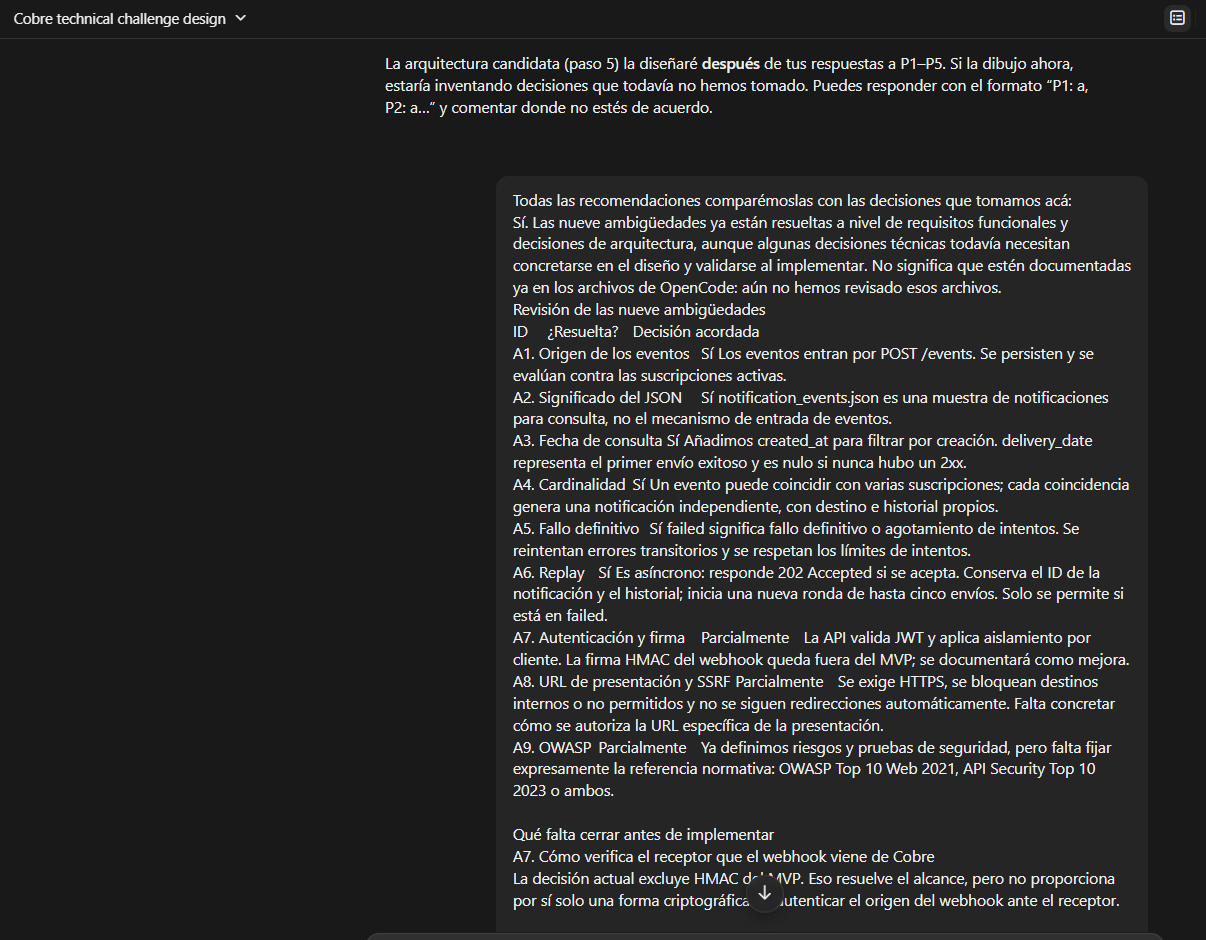
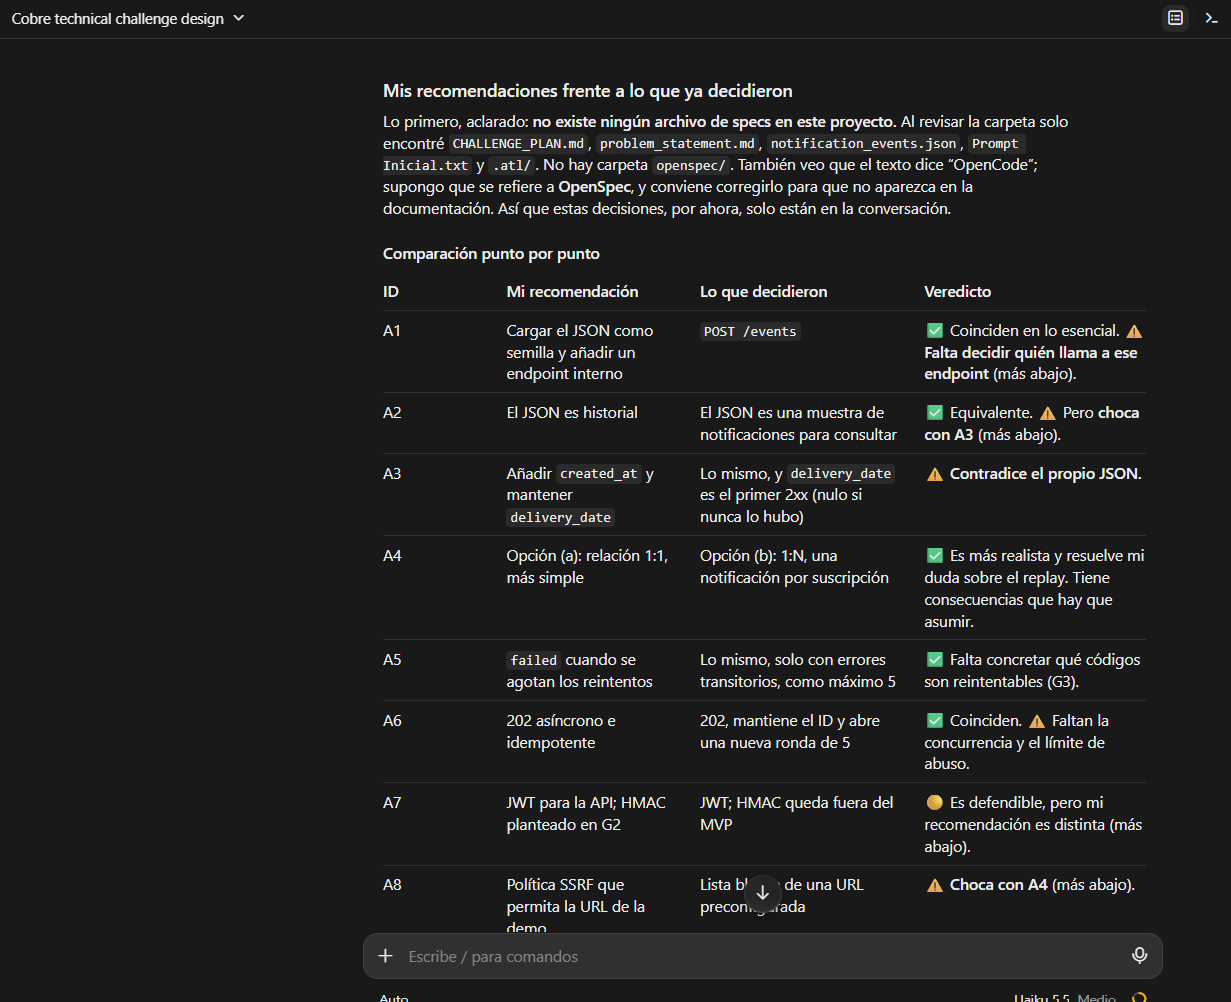
docs(ai-usage): sync the evidence images and their descriptions

diff --git a/docs/ai-usage/README.md b/docs/ai-usage/README.md
@@ -20,8 +20,8 @@ Screenshots of the design phase conversation, kept as evidence of how AI was use
 | Image | What it shows |
 |---|---|
 | [image1.png](images/image1.png) | The initial prompt: ODD + SDD approach, and the instruction to refine the problem before any file is created. |
-| [Image3.png](images/Image3.png) | The review of the nine ambiguities (A1 to A9) against the decisions already taken. |
-| [Image4.png](images/Image4.png) | The AI's recommendations compared with the decisions made, point by point. |
-| [Image5.png](images/Image5.png) | The same comparison, continued. |
-| [Image6.png](images/Image6.png) | The next questions to close before the architecture: MoSCoW scope, Gradle DSL, observability and deployment. |
-| [multiagent.png](images/multiagent.png) | Status of the parallel sessions and the decisions pending from the developer during implementation. |
+| [Image2.png](images/Image2.png) | The review of the nine ambiguities (A1 to A9) against the decisions already taken. |
+| [Image3.png](images/Image3.png) | The AI's recommendations compared with the decisions made, point by point. |
+| [Image4.png](images/Image4.png) | The same comparison, continued. |
+| [Image5.png](images/Image5.png) | The next questions to close before the architecture: MoSCoW scope, Gradle DSL, observability and deployment. |
+| [Multiagent.png](images/Multiagent.png) | Status of the parallel sessions and the decisions pending from the developer during implementation. |
